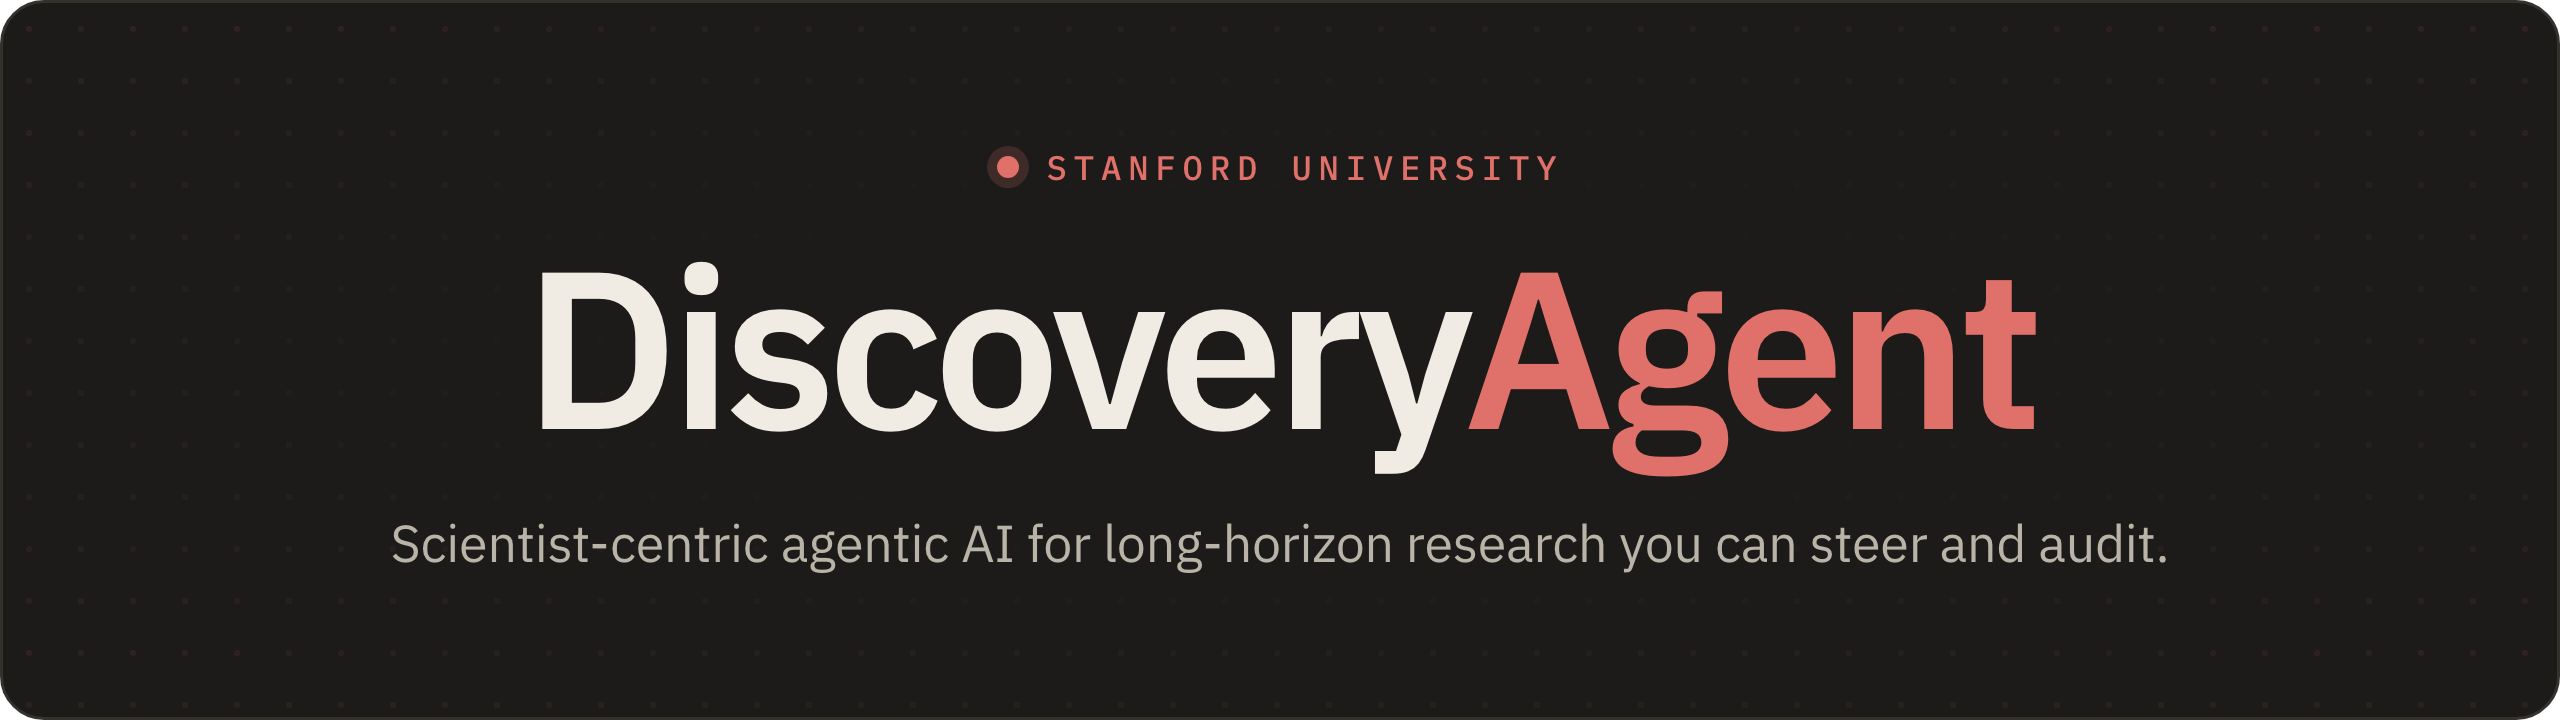
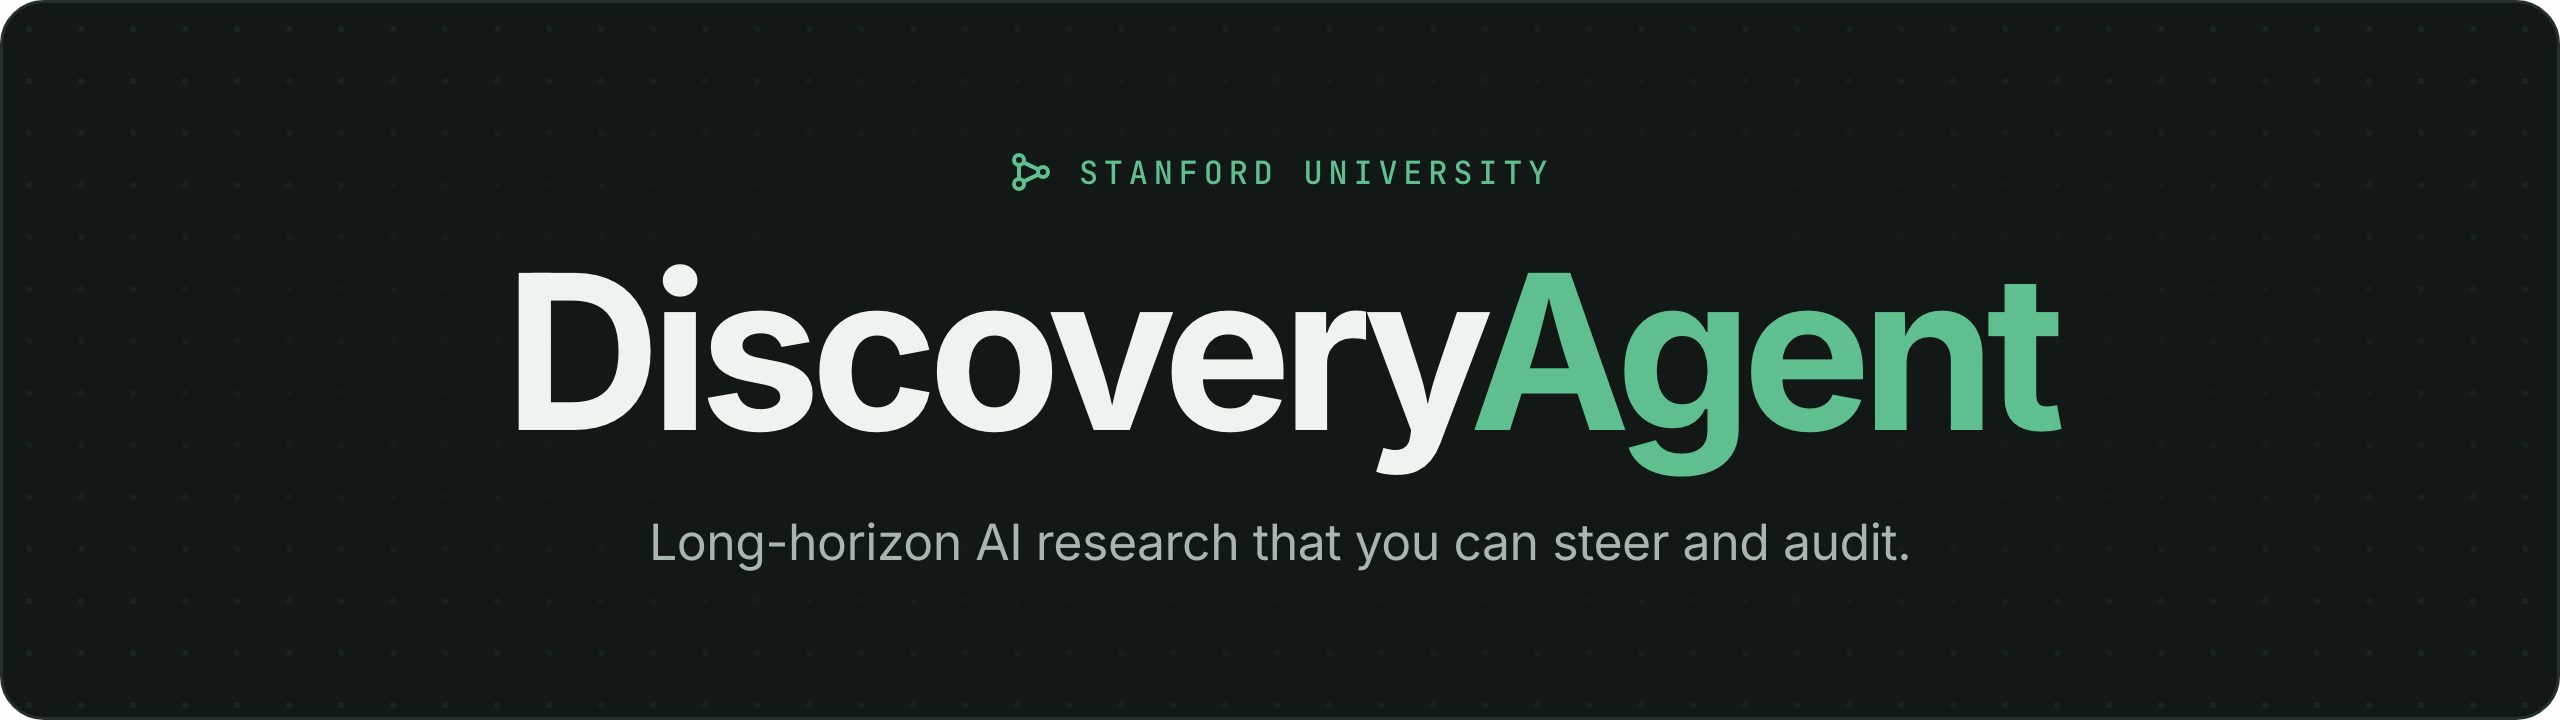
Restyle README after the green website draft
Match the green website draft, which also aligns with the app's deep green
accent: Inter/JetBrains Mono banner with the network mark and forest-green
palette, the draft's tagline and lede, its "Put scientific judgment where
it matters" framing with the three requirements, and Steering/Auditing
sections in its wording.

diff --git a/README.md b/README.md
@@ -2,7 +2,7 @@
   <picture>
     <source media="(prefers-color-scheme: dark)" srcset="docs/assets/header-dark.png">
     <source media="(prefers-color-scheme: light)" srcset="docs/assets/header-light.png">
-    <img alt="DiscoveryAgent: scientist-centric agentic AI for long-horizon research you can steer and audit." src="docs/assets/header-light.png" width="100%">
+    <img alt="DiscoveryAgent: long-horizon AI research that you can steer and audit." src="docs/assets/header-light.png" width="100%">
   </picture>
 </p>
 
@@ -14,11 +14,7 @@
   <a href="#paper">Paper</a>
 </p>
 
-<h3 align="center">Agents run the research. You decide what's worth asking.</h3>
-
-DiscoveryAgent is a multi-agent AI system for semi-autonomous scientific research. Give it your data and a research objective, and it carries out iterative investigations: exploring your data, connecting findings to the scientific literature, performing computational analyses, and developing new hypotheses.
-
-Within a hypothesis, a coordinated team of specialized agents plans the investigation, synthesizes the literature, writes and executes analyses, and critiques intermediate findings. Between hypotheses, you select, refine, or replace the next direction. Research unfolds in rounds, each carrying forward the evidence and context of the last, and an Audit Agent lets you trace any claim back to the code and data behind it.
+DiscoveryAgent is a domain-agnostic, scientist-centric AI discovery system. Give it your data and a research objective, and agents investigate autonomously within a hypothesis: exploring your data, connecting findings to the scientific literature, and writing and executing analyses. Between hypotheses, you decide where the research goes, with an Audit Agent that lets you check what any claim actually rests on.
 
 DiscoveryAgent runs locally on your Mac as a persistent research workspace.
 
@@ -26,27 +22,17 @@ DiscoveryAgent runs locally on your Mac as a persistent research workspace.
 
 https://github.com/user-attachments/assets/0ce3b30c-fe8b-4726-8b28-6bfcd3c17de1
 
-## Why DiscoveryAgent
+## The idea
 
-<table>
-  <tr>
-    <td width="33%" valign="top">
-      <sub><code>TRANSPARENCY</code></sub><br>
-      <strong>The research history is an output</strong><br><br>
-      Each round's queries, code, reports, and figures stay in your project, so the work behind a finding remains available to inspect.
-    </td>
-    <td width="33%" valign="top">
-      <sub><code>AUDITABILITY</code></sub><br>
-      <strong>A record you can interrogate</strong><br><br>
-      No one can read every line of agent-written code before each decision. The Audit Agent navigates the investigation for you: find where a claim came from, inspect the analysis behind it, or probe it with a follow-up.
-    </td>
-    <td width="33%" valign="top">
-      <sub><code>STEERABILITY</code></sub><br>
-      <strong>Direct the science, not the keystrokes</strong><br><br>
-      You step in at hypothesis boundaries to choose, edit, or replace the next direction while agents carry out the analyses. Your attention goes where judgment matters.
-    </td>
-  </tr>
-</table>
+### Put scientific judgment where it matters.
+
+Coding agents are interactive, but you have to decompose and supervise every analysis. End-to-end AI scientists run for days, then hand you a report you had no part in. Neither fits how research works: results keep changing which question is worth asking next.
+
+DiscoveryAgent scopes agent autonomy to one hypothesis at a time and puts you at the boundaries. It is built around three requirements.
+
+- **Transparency.** Each round's queries, code, reports, and figures stay in your project. The research history is an output, not exhaust.
+- **Auditability.** No one can read every line of agent-written code before each decision. The Audit Agent traces claims to their evidence and answers follow-up questions about the investigation.
+- **Steerability.** You select, refine, or replace hypotheses as results emerge. Agents handle the well-scoped analyses needed to test them.
 
 ## Quick Start
 
@@ -80,12 +66,11 @@ This starts the local DiscoveryAgent app and opens it in your browser. On first 
   <code>Data &amp; context</code> → <code>Explore</code> → <code>Develop hypotheses</code> → <code>Investigate</code> → <code>Review &amp; audit</code> → <code>Continue</code>
 </p>
 
-| Step | What happens |
-| --- | --- |
-| **Explore & steer** | An exploratory round builds an understanding of your research problem. At each round boundary, the hypothesis agent proposes candidates grounded in everything found so far; you accept, edit, or replace them. |
-| **Investigate** | Agents launch a focused research round on the selected hypothesis and end it with a round report. |
-| **Audit** | Ask the Audit Agent why an analysis was run, where a number came from, or which script produced a figure. It works from the project's reports, code, and supporting evidence, not just the summary. |
-| **Continue** | Choose the next direction. Each round builds on the evidence and context of the last. |
+**Steering: choose the next hypothesis, not the next command.** An exploratory round builds an understanding of your research problem. At the end of each round, a hypothesis agent proposes candidates grounded in the accumulated findings. In **Hypothesis Studio** you pick one, edit it, regenerate, or write your own, and you can question the Audit Agent first. Agents then run a focused round on your selection and end it with a round report.
+
+**Auditing: ask the trace.** The Audit Agent sits outside the research stream and works from the project's record: reports, code, and supporting evidence. Ask it why an analysis was run, where a number came from, or which script produced a figure.
+
+**Continuing.** Each round carries forward the evidence and context of the last, so the investigation deepens over time.
 
 ## App Overview
 
@@ -95,9 +80,9 @@ This starts the local DiscoveryAgent app and opens it in your browser. On first 
 | **Data (Home)** | Register local files and folders, then choose which projects can access them. |
 | **Hypothesis Studio** | Generate, discuss, revise, and select candidate hypotheses. |
 | **Round Workspace** | Follow research activity and browse each round's code, reports, figures, and outputs. |
-| **Reports** | Read a summary or full research round report and inspect supporting analyses and figures. |
+- **Reports.** Read a summary or full research round report and inspect supporting analyses and figures.
 | **Audit Agent** | Ask questions about the investigation and inspect its reports, code, and supporting evidence. |
-| **Skills** | Import project-specific skills for execution agents. |
+- **Skills.** Import project-specific skills for execution agents.
 
 ## Agent System
 
@@ -105,7 +90,7 @@ DiscoveryAgent coordinates several agent roles around an investigation:
 
 | Role | Responsibility |
 | --- | --- |
-| **Director** | Guides the sequence of research queries within a round. |
+- **Director.** Guides the sequence of research queries within a round.
 | **Research & execution agents** | Gather information from the literature and carry out analyses. |
 | **Review agent** | Evaluates intermediate findings and helps refine the investigation. |
 | **Hypothesis agents** | Propose possible next directions at round boundaries. |
